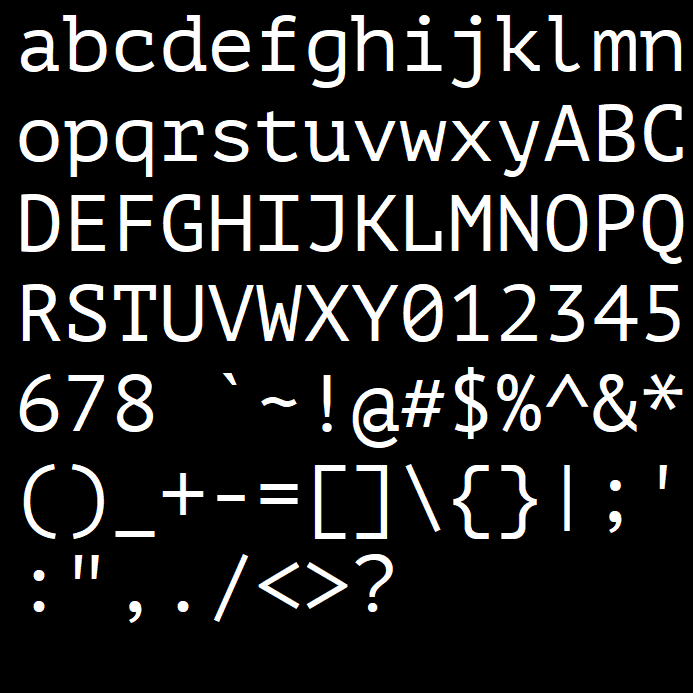
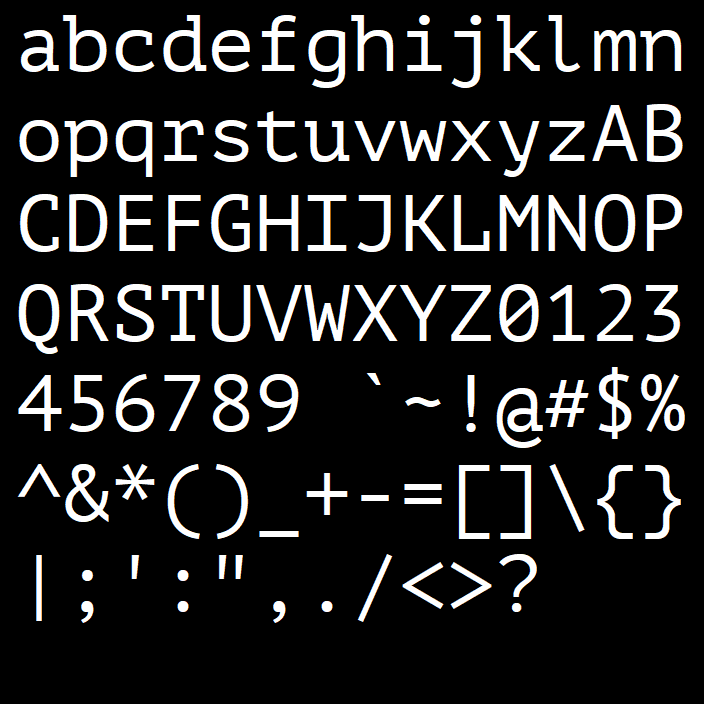
z, Z and 9 exist

diff --git a/Pengu/Renderer/VulkanContext.Font.cs b/Pengu/Renderer/VulkanContext.Font.cs
@@ -2,8 +2,6 @@
 using System.Collections.Generic;
 using System.Text;
 using SharpVk;
-using SharpVk.Shanq;
-using SharpVk.Shanq.Numerics;
 using System.Numerics;
 using System.Runtime.InteropServices;
 using System.Linq;
@@ -16,7 +14,7 @@ namespace Pengu.Renderer
         {
             const int InitialCharacterSize = 64;
 
-            VulkanContext context;
+            readonly VulkanContext context;
             SharpVk.Buffer vertexBuffer, stagingVertexBuffer;
             DeviceMemory vertexBufferMemory, stagingVertexBufferMemory;
             Pipeline pipeline;
@@ -111,6 +109,7 @@ namespace Pengu.Renderer
                     vertexBufferMemory.Free();
                     stagingVertexBuffer.Dispose();
                     stagingVertexBufferMemory.Free();
+                    pipeline.Dispose();
 
                     disposedValue = true;
                 }
@@ -131,7 +130,6 @@ namespace Pengu.Renderer
 
         struct FontVertex
         {
-            [Location(0)]
             Vector2 position;
 
             public FontVertex(Vector2 position) => this.position = position;

diff --git a/Pengu.FontGen/Program.cs b/Pengu.FontGen/Program.cs
@@ -11,7 +11,7 @@ namespace Pengu.FontGen
     {
         static IEnumerable<char> Range(char from, char to)
         {
-            while (from < to)
+            while (from <= to)
             {
                 yield return from;
                 ++from;
@@ -45,7 +45,8 @@ namespace Pengu.FontGen
             var area = charSizes.Values.Sum(s => s.Width * s.Height);
             var texWidth = (int)(Math.Sqrt(area) * 1.1);
 
-            using var binoutput = new BinaryWriter(File.OpenWrite($"{args[0]}.bin"));
+            var fn = args[0].Replace(' ', '_');
+            using var binoutput = new BinaryWriter(File.OpenWrite($"{fn}.bin"));
 
             using var bmp = new Bitmap(texWidth, texWidth, System.Drawing.Imaging.PixelFormat.Format24bppRgb);
             using (var g = Graphics.FromImage(bmp))
@@ -72,7 +73,7 @@ namespace Pengu.FontGen
                 }
             }
 
-            bmp.Save($"{args[0]}.png");
+            bmp.Save($"{fn}.png");
         }
     }
 }
